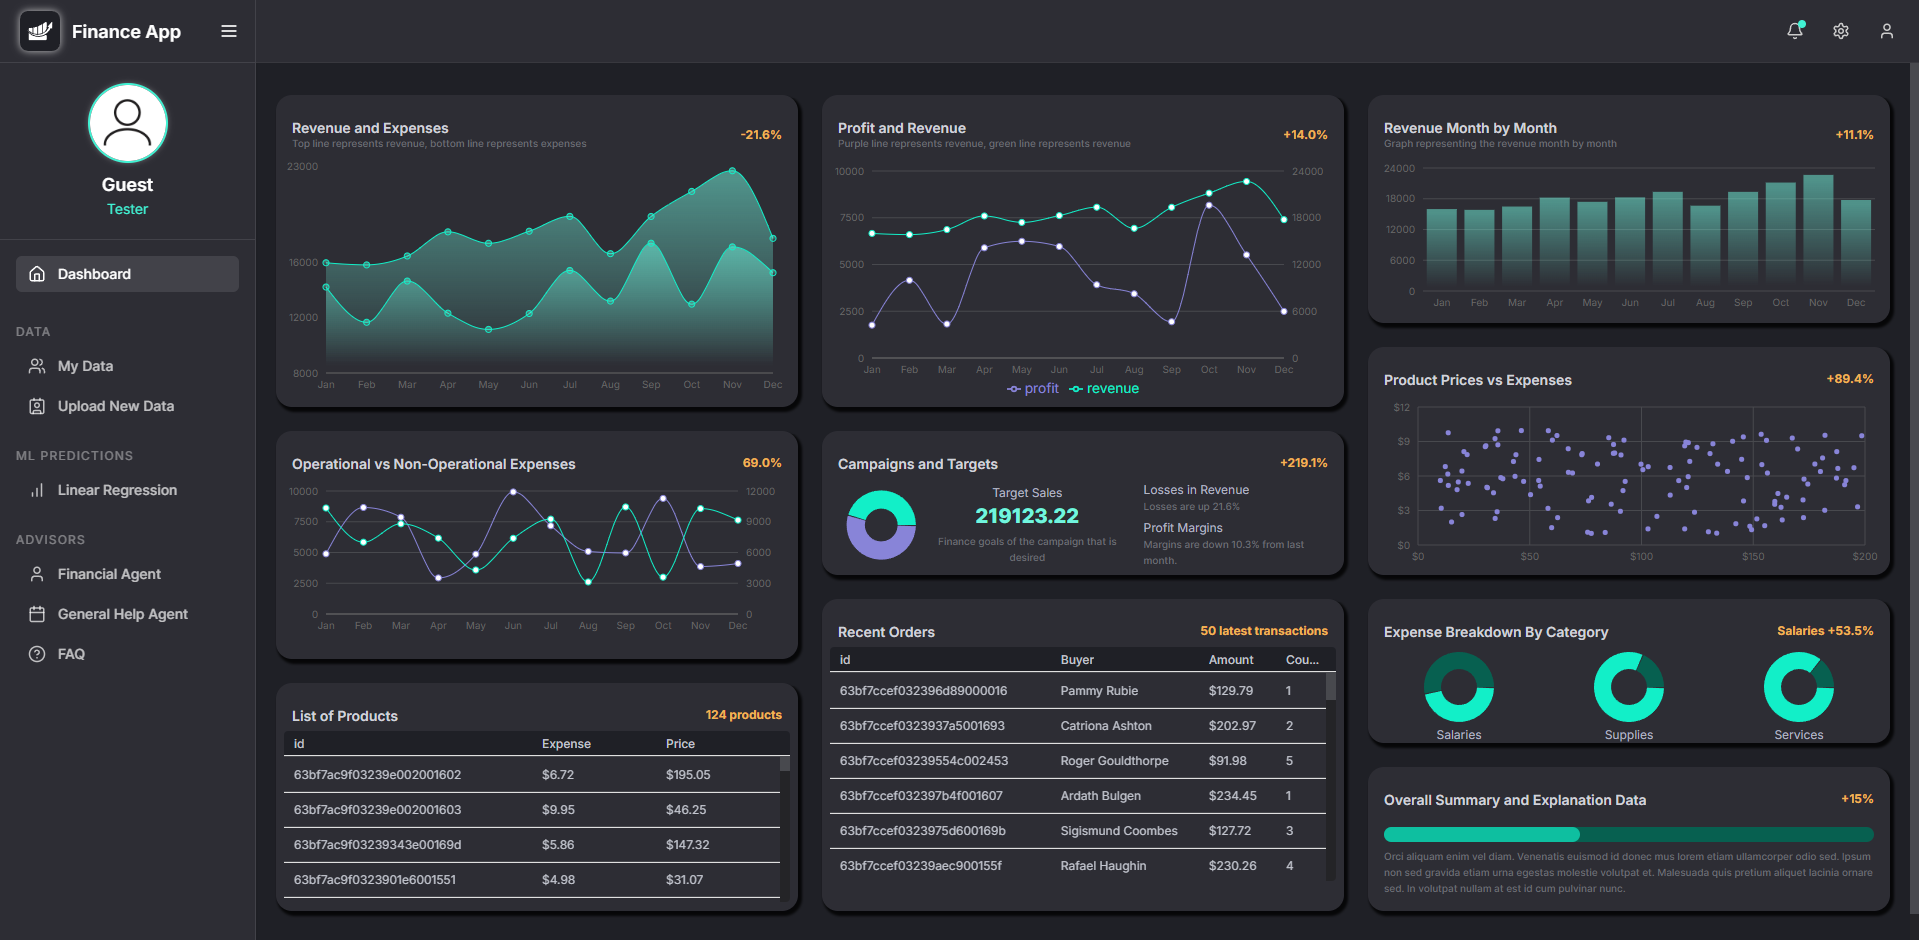
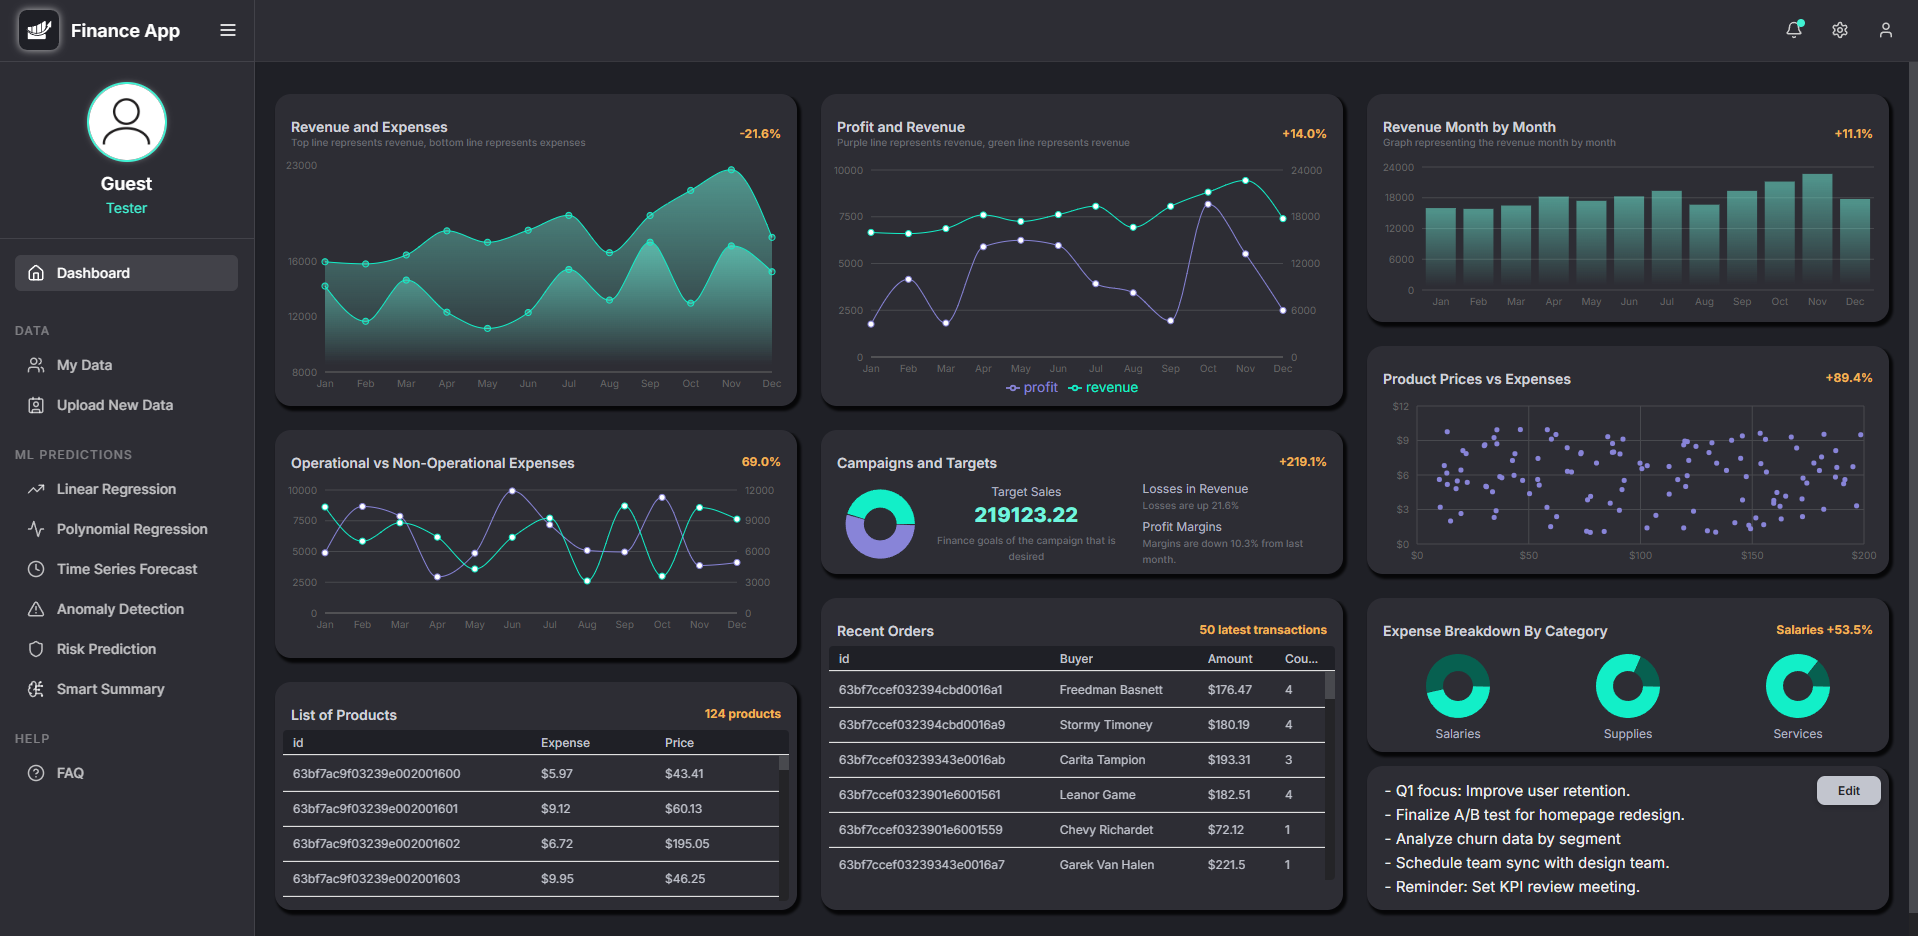
Improve dashboard styling and change functionality of summary feature to notes feature

diff --git a/client/src/scenes/dashboard/Row3.tsx b/client/src/scenes/dashboard/Row3.tsx
@@ -6,9 +6,9 @@ import {
   useGetProductsQuery,
   useGetTransactionsQuery,
 } from "@/state/api";
-import { Box, Typography, useTheme } from "@mui/material";
+import { Box, Button, Typography, useTheme } from "@mui/material";
 import { DataGrid, GridCellParams } from "@mui/x-data-grid";
-import React, { useMemo } from "react";
+import React, { useEffect, useMemo, useRef, useState } from "react";
 import { Cell, Pie, PieChart } from "recharts";
 
 const Row3 = () => {
@@ -25,10 +25,7 @@ const Row3 = () => {
       return Object.entries(kpiData[0].expensesByCategory).map(
         ([key, value]) => {
           return [
-            {
-              name: key,
-              value: value,
-            },
+            { name: key, value: value },
             {
               name: `${key} of Total`,
               value: totalExpenses - (value as number),
@@ -41,10 +38,8 @@ const Row3 = () => {
 
   const topExpenseCategory = useMemo(() => {
     if (!kpiData || !kpiData[0]?.expensesByCategory) return null;
-
     const totalExpenses = kpiData[0].totalExpenses;
     const categories = kpiData[0].expensesByCategory;
-
     if (!totalExpenses || Object.keys(categories).length === 0) return null;
 
     let topCategory = "";
@@ -62,11 +57,7 @@ const Row3 = () => {
   }, [kpiData]);
 
   const productColumns = [
-    {
-      field: "_id",
-      headerName: "id",
-      flex: 1,
-    },
+    { field: "_id", headerName: "id", flex: 1 },
     {
       field: "expense",
       headerName: "Expense",
@@ -82,16 +73,8 @@ const Row3 = () => {
   ];
 
   const transactionColumns = [
-    {
-      field: "_id",
-      headerName: "id",
-      flex: 1,
-    },
-    {
-      field: "buyer",
-      headerName: "Buyer",
-      flex: 0.67,
-    },
+    { field: "_id", headerName: "id", flex: 1 },
+    { field: "buyer", headerName: "Buyer", flex: 0.67 },
     {
       field: "amount",
       headerName: "Amount",
@@ -106,6 +89,28 @@ const Row3 = () => {
         (params.value as Array<string>).length,
     },
   ];
+
+  const [noteText, setNoteText] = useState(() => {
+    return (
+      localStorage.getItem("dashboard-notes") ||
+      `- Q1 focus: Improve user retention.\n- Finalize A/B test for homepage redesign.\n- Analyze churn data by segment\n- Schedule team sync with design team.\n- Reminder: Set KPI review meeting.`
+    );
+  });
+
+  const [isEditing, setIsEditing] = useState(false);
+  const textAreaRef = useRef<HTMLTextAreaElement | null>(null);
+
+  useEffect(() => {
+    localStorage.setItem("dashboard-notes", noteText);
+  }, [noteText]);
+
+  useEffect(() => {
+    if (isEditing && textAreaRef.current) {
+      const len = textAreaRef.current.value.length;
+      textAreaRef.current.focus();
+      textAreaRef.current.setSelectionRange(len, len);
+    }
+  }, [isEditing]);
 
   return (
     <>
@@ -181,13 +186,18 @@ const Row3 = () => {
         </Box>
       </DashboardBox>
 
-      <DashboardBox gridArea="i">
+      <DashboardBox gridArea="i" sx={{ mb: "-0.6rem" }}>
         <BoxHeader
           title="Expense Breakdown By Category"
           sideText={topExpenseCategory ?? "N/A"}
         />
-
-        <FlexBetween mt="0.5rem" gap="0.5rem" p="0 1rem" textAlign="center">
+        <FlexBetween
+          mt="0.5rem"
+          mb="0.5rem"
+          gap="0.5rem"
+          p="0 1rem"
+          textAlign="center"
+        >
           {pieChartData
             ?.filter((data) => data[0].name && data[0].name !== "$*")
             .map((data, i) => (
@@ -196,9 +206,9 @@ const Row3 = () => {
                   <Pie
                     stroke="none"
                     data={data}
-                    innerRadius={18}
-                    outerRadius={35}
-                    paddingAngle={2}
+                    innerRadius={15}
+                    outerRadius={32}
+                    paddingAngle={1}
                     dataKey="value"
                   >
                     {data.map((entry, index) => (
@@ -213,29 +223,99 @@ const Row3 = () => {
       </DashboardBox>
 
       <DashboardBox gridArea="j">
-        <BoxHeader
-          title="Overall Summary and Explanation Data"
-          sideText="+15%"
-        />
         <Box
-          height="15px"
-          margin="1.25rem 1rem 0.4rem 1rem"
-          bgcolor={palette.primary[800]}
-          borderRadius="1rem"
+          position="relative"
+          sx={{
+            width: "100%",
+            minHeight: "7rem",
+            paddingRight: "6rem",
+            paddingLeft: "1.1rem",
+            paddingTop: "0.3rem",
+            border: "none",
+            outline: "none",
+            resize: "none",
+            backgroundColor: "transparent",
+            color: "#ffffff",
+            fontSize: "0.94rem",
+            fontFamily: "inherit",
+            lineHeight: 1.6,
+            boxSizing: "border-box",
+          }}
         >
-          <Box
-            height="15px"
-            bgcolor={palette.primary[600]}
-            borderRadius="1rem"
-            width="40%"
-          ></Box>
+          <Button
+            onClick={() => setIsEditing(!isEditing)}
+            sx={{
+              position: "absolute",
+              top: "0.6rem",
+              right: "0.5rem",
+              backgroundColor: palette.grey[400],
+              color: palette.grey[900],
+              textTransform: "none",
+              fontWeight: 600,
+              borderRadius: "0.5rem",
+              px: "1.25rem",
+              py: "0.25rem",
+              zIndex: 10,
+              boxShadow: "0 2px 6px rgba(0,0,0,0.2)",
+              "&:hover": {
+                backgroundColor: palette.grey[300],
+              },
+            }}
+          >
+            {isEditing ? "Save" : "Edit"}
+          </Button>
+
+          {isEditing ? (
+            <Box
+              component="textarea"
+              ref={textAreaRef}
+              value={noteText}
+              onChange={(e) => setNoteText(e.target.value)}
+              placeholder="Notes..."
+              onKeyDown={(e) => {
+                if ((e.metaKey || e.ctrlKey) && e.key === "Enter") {
+                  setIsEditing(false);
+                }
+              }}
+              sx={{
+                width: "100%",
+                minHeight: "8.5rem",
+                paddingRight: "6rem",
+                paddingLeft: "0rem",
+                paddingTop: "0.5rem",
+                border: "none",
+                outline: "none",
+                resize: "none",
+                overflow: "hidden",
+                backgroundColor: "transparent",
+                color: "#ffffff",
+                fontSize: "0.94rem",
+                fontFamily: "inherit",
+                lineHeight: 1.6,
+                boxSizing: "border-box",
+              }}
+            />
+          ) : (
+            <Typography
+              variant="body1"
+              sx={{
+                whiteSpace: "pre-wrap",
+                color: "#ffffff",
+                fontSize: "0.94rem",
+                fontFamily: "inherit",
+                lineHeight: 1.6,
+                minHeight: "9rem",
+                paddingRight: "6rem",
+                paddingTop: "0.5rem",
+                boxSizing: "border-box",
+                cursor: "pointer",
+              }}
+              onClick={() => setIsEditing(true)}
+            >
+              {noteText || "Click to add notes..."}
+            </Typography>
+          )}
         </Box>
-        <Typography margin="0 1rem" variant="h6">
-          Orci aliquam enim vel diam. Venenatis euismod id donec mus lorem etiam
-          ullamcorper odio sed. Ipsum non sed gravida etiam urna egestas
-          molestie volutpat et. Malesuada quis pretium aliquet lacinia ornare
-          sed. In volutpat nullam at est id cum pulvinar nunc.
-        </Typography>
       </DashboardBox>
     </>
   );

diff --git a/client/src/scenes/sidebar/index.tsx b/client/src/scenes/sidebar/index.tsx
@@ -66,20 +66,8 @@ const navSections = [
     ],
   },
   {
-    title: "Advisors",
-    items: [
-      {
-        label: "Financial Agent",
-        path: "/financialagent",
-        icon: <User size={18} />,
-      },
-      {
-        label: "General Help Agent",
-        path: "/generalhelpagent",
-        icon: <Calendar size={18} />,
-      },
-      { label: "FAQ", path: "/faq", icon: <HelpCircle size={18} /> },
-    ],
+    title: "Help",
+    items: [{ label: "FAQ", path: "/faq", icon: <HelpCircle size={18} /> }],
   },
 ];
 

diff --git a/client/src/scenes/riskprediction/index.tsx b/client/src/scenes/riskprediction/index.tsx
@@ -195,7 +195,7 @@ const RiskPrediction = () => {
               margin={{ top: 20, right: 40, left: 10, bottom: 80 }}
               data={chartData}
             >
-              <CartesianGrid strokeDasharray="3 3" stroke={palette.grey[700]} />
+              <CartesianGrid strokeDasharray="3 3" stroke={palette.grey[800]} />
               <XAxis
                 dataKey="name"
                 interval={0}

diff --git a/client/src/theme.ts b/client/src/theme.ts
@@ -36,7 +36,7 @@ export const tokens = {
     500: "#8884d8",
   },
   background: {
-    navbar: "#d1d3da",     // <- NEW: for sidebar/topbar
+    navbar: "#d1d3da",
     light: "#2d2d34",
     main: "#1f2026",
   },

diff --git a/client/src/components/BoxHeader.tsx b/client/src/components/BoxHeader.tsx
@@ -4,7 +4,7 @@ import FlexBetween from "./FlexBetween";
 
 type Props = {
   title: string;
-  sideText: string;
+  sideText: React.ReactNode;
   subtitle?: string;
   icon?: React.ReactNode;
 };
